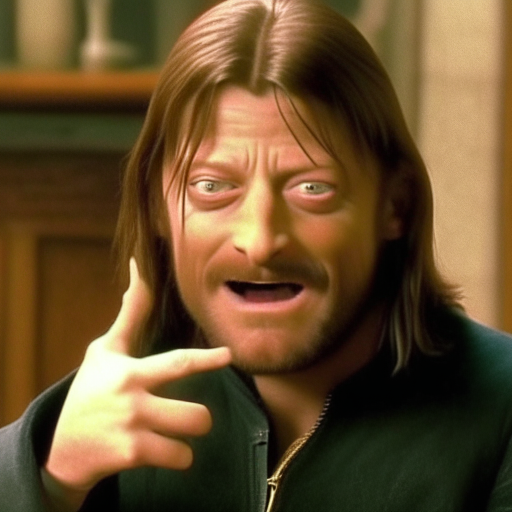
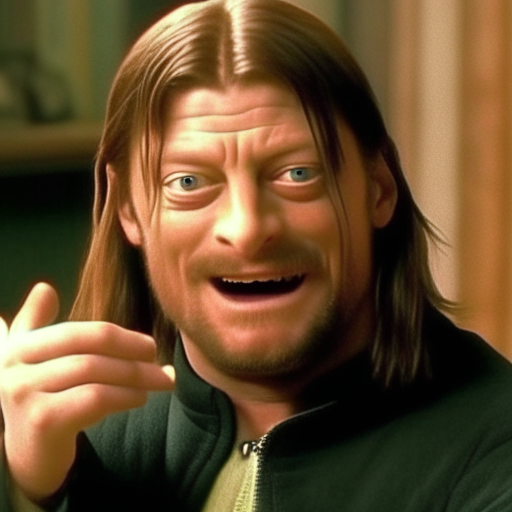
Final fixed

diff --git a/run.py b/run.py
@@ -1,6 +1,7 @@
 from argparse import ArgumentParser
 from kandinsky2 import get_kandinsky2
 from PIL import Image
+import pytorch_lightning as pl
 
 
 def load_model(device, use_flash_attention=True, cache="/tmp/kandinsky2"):
@@ -21,11 +22,13 @@ if __name__ == "__main__":
     parser.add_argument("--output_name", default="mix.png", type=str)
     parser.add_argument("--output_height", default=512, type=int)
     parser.add_argument("--output_width", default=512, type=int)
+    parser.add_argument("--random_state", default=42, type=int)
 
     args = parser.parse_args()
     
     assert len(args.images) == 2, "We only works with two images!"
     
+    pl.seed_everything(args.random_state)
     images = [Image.open(path) for path in args.images]
     
     model = load_model(args.device, args.flash_attention)

diff --git a/README.md b/README.md
@@ -19,7 +19,7 @@
 
 Для запуска смешивания есть файл `run.py`, который запускается следующим образом (выделенное в квадратные скобки - опционально и можно опустить):
 ```bash
-python run.py [--device cpu] [--flash_attention true] [--output_name mix.png] [--output_width 512] [--output_height 512] img1.jpg img2.jpg
+python run.py [--device cpu] [--flash_attention true] [--output_name mix.png] [--output_width 512] [--output_height 512] [--random_state 42] img1.jpg img2.jpg
 ```
 Выходное изображение будет записано в файл `output_name` параметр, который по умолчанию `mix.png`.
 
